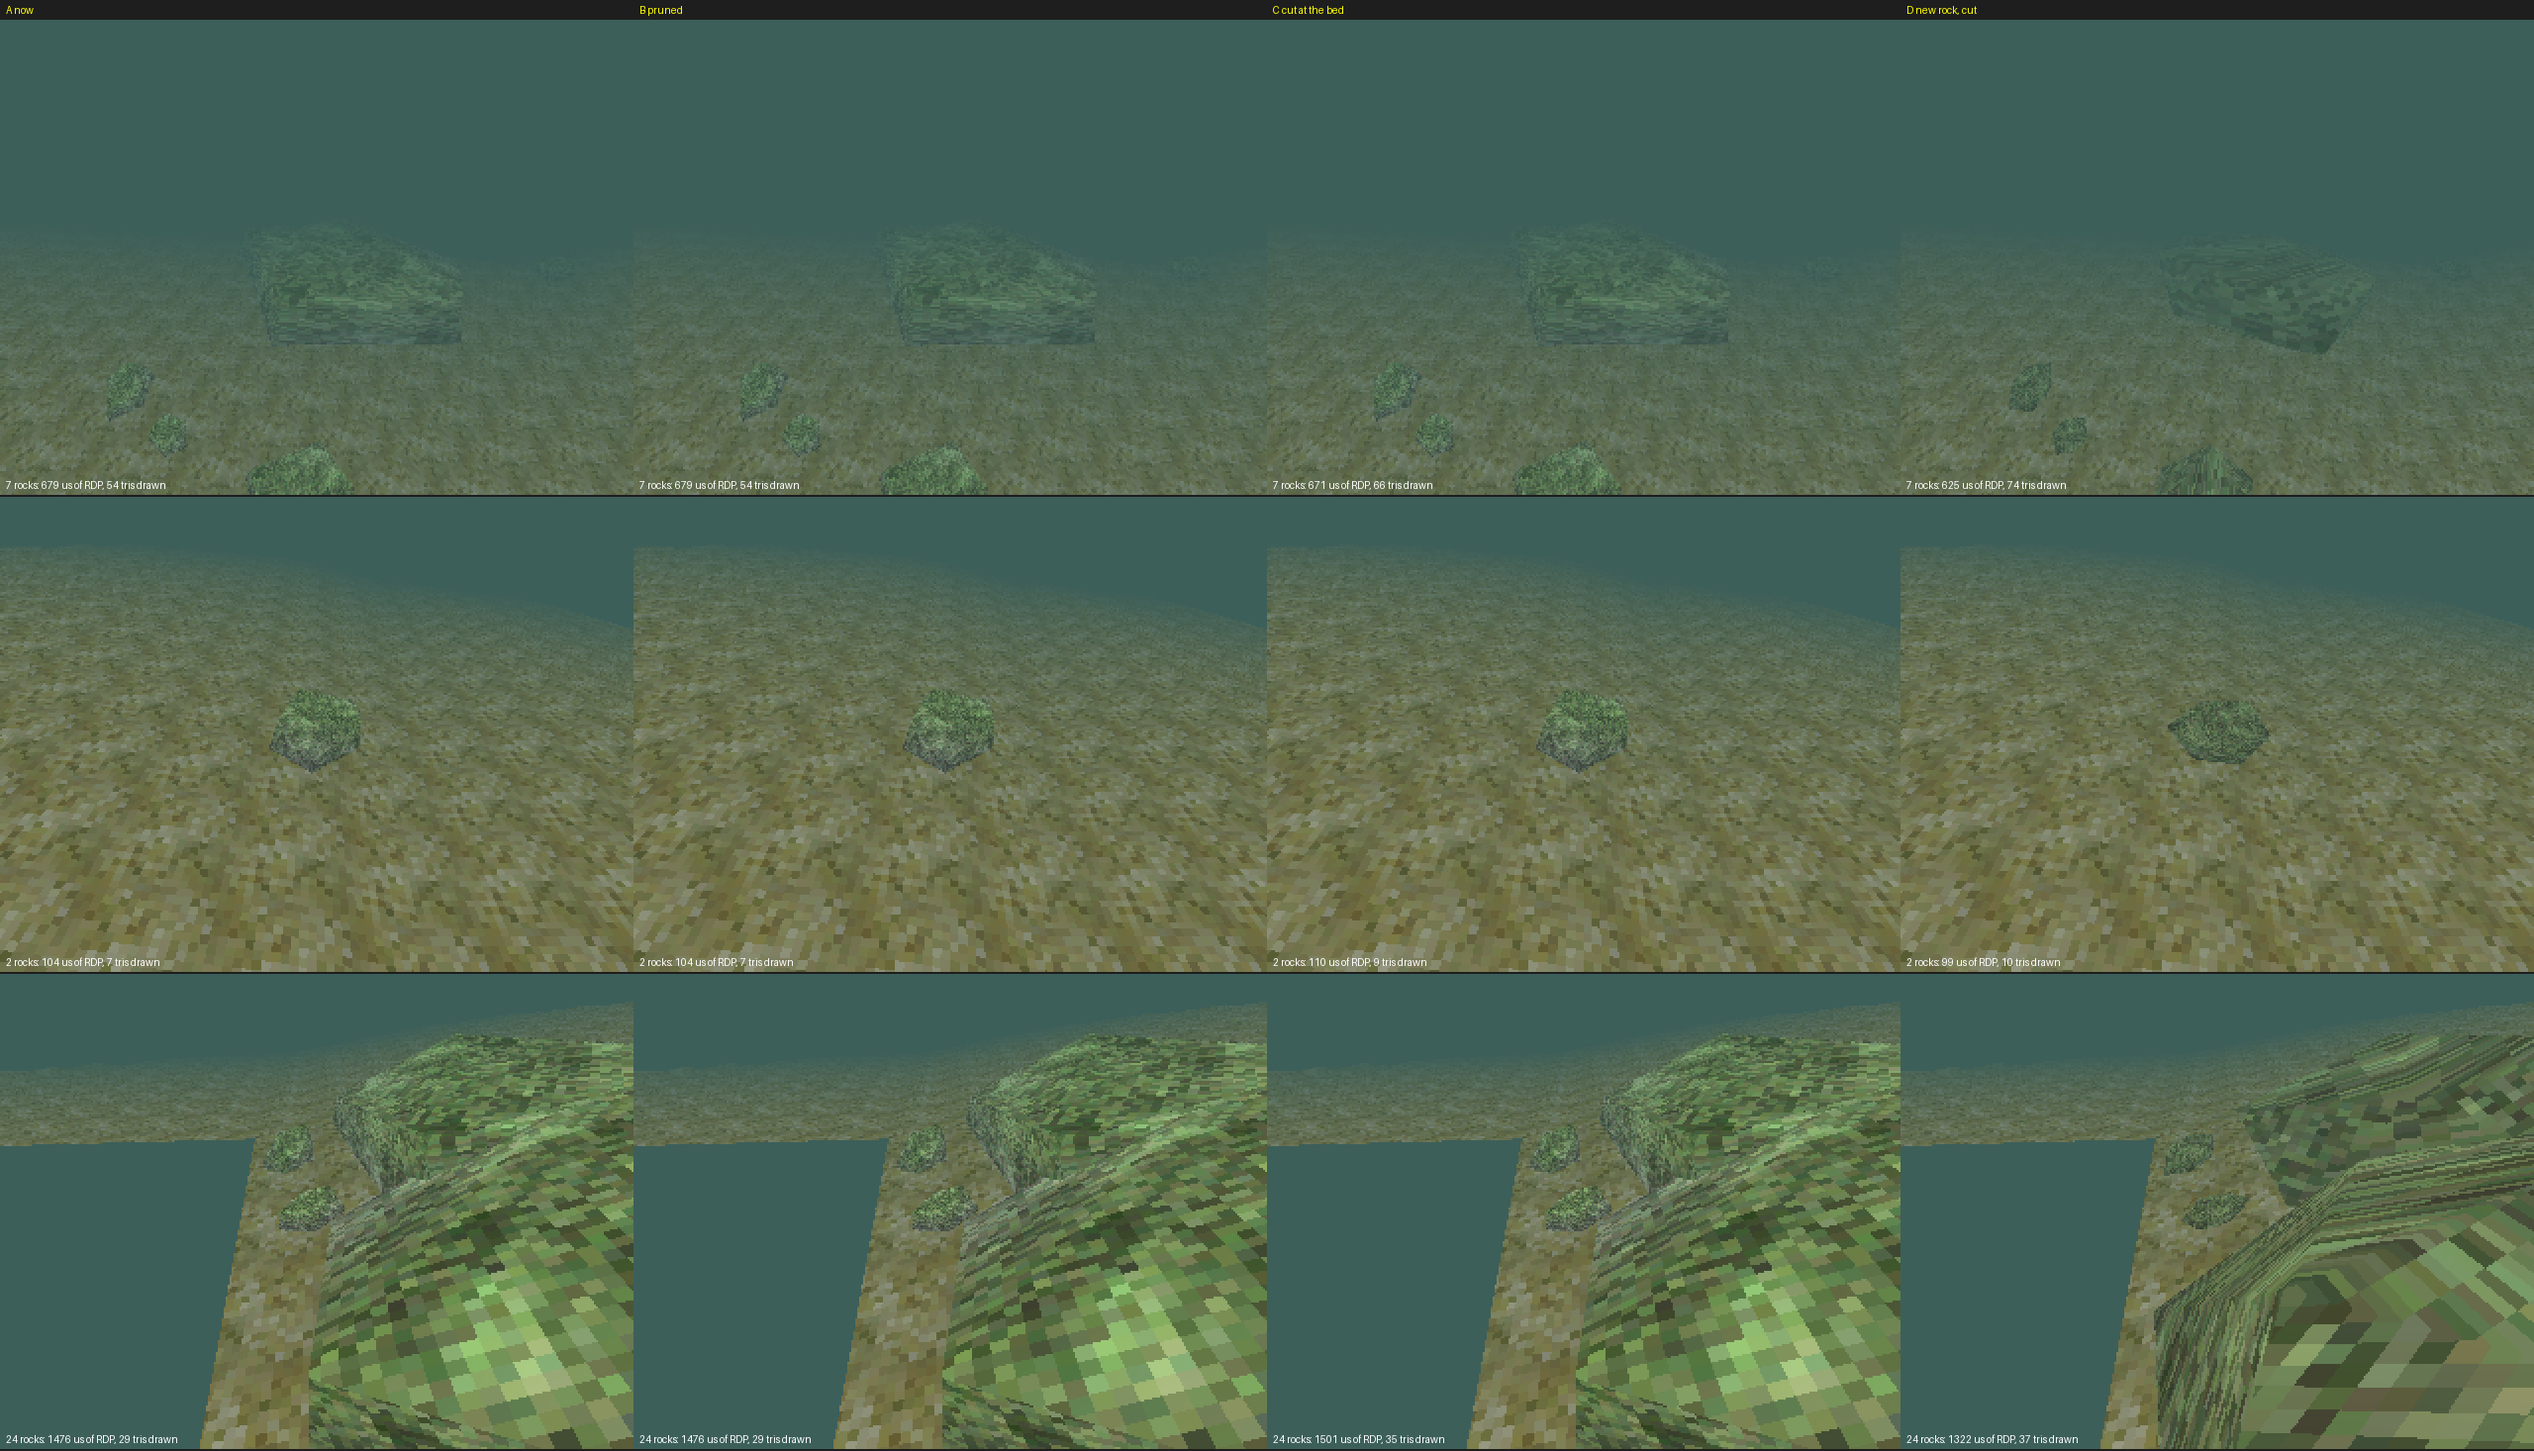
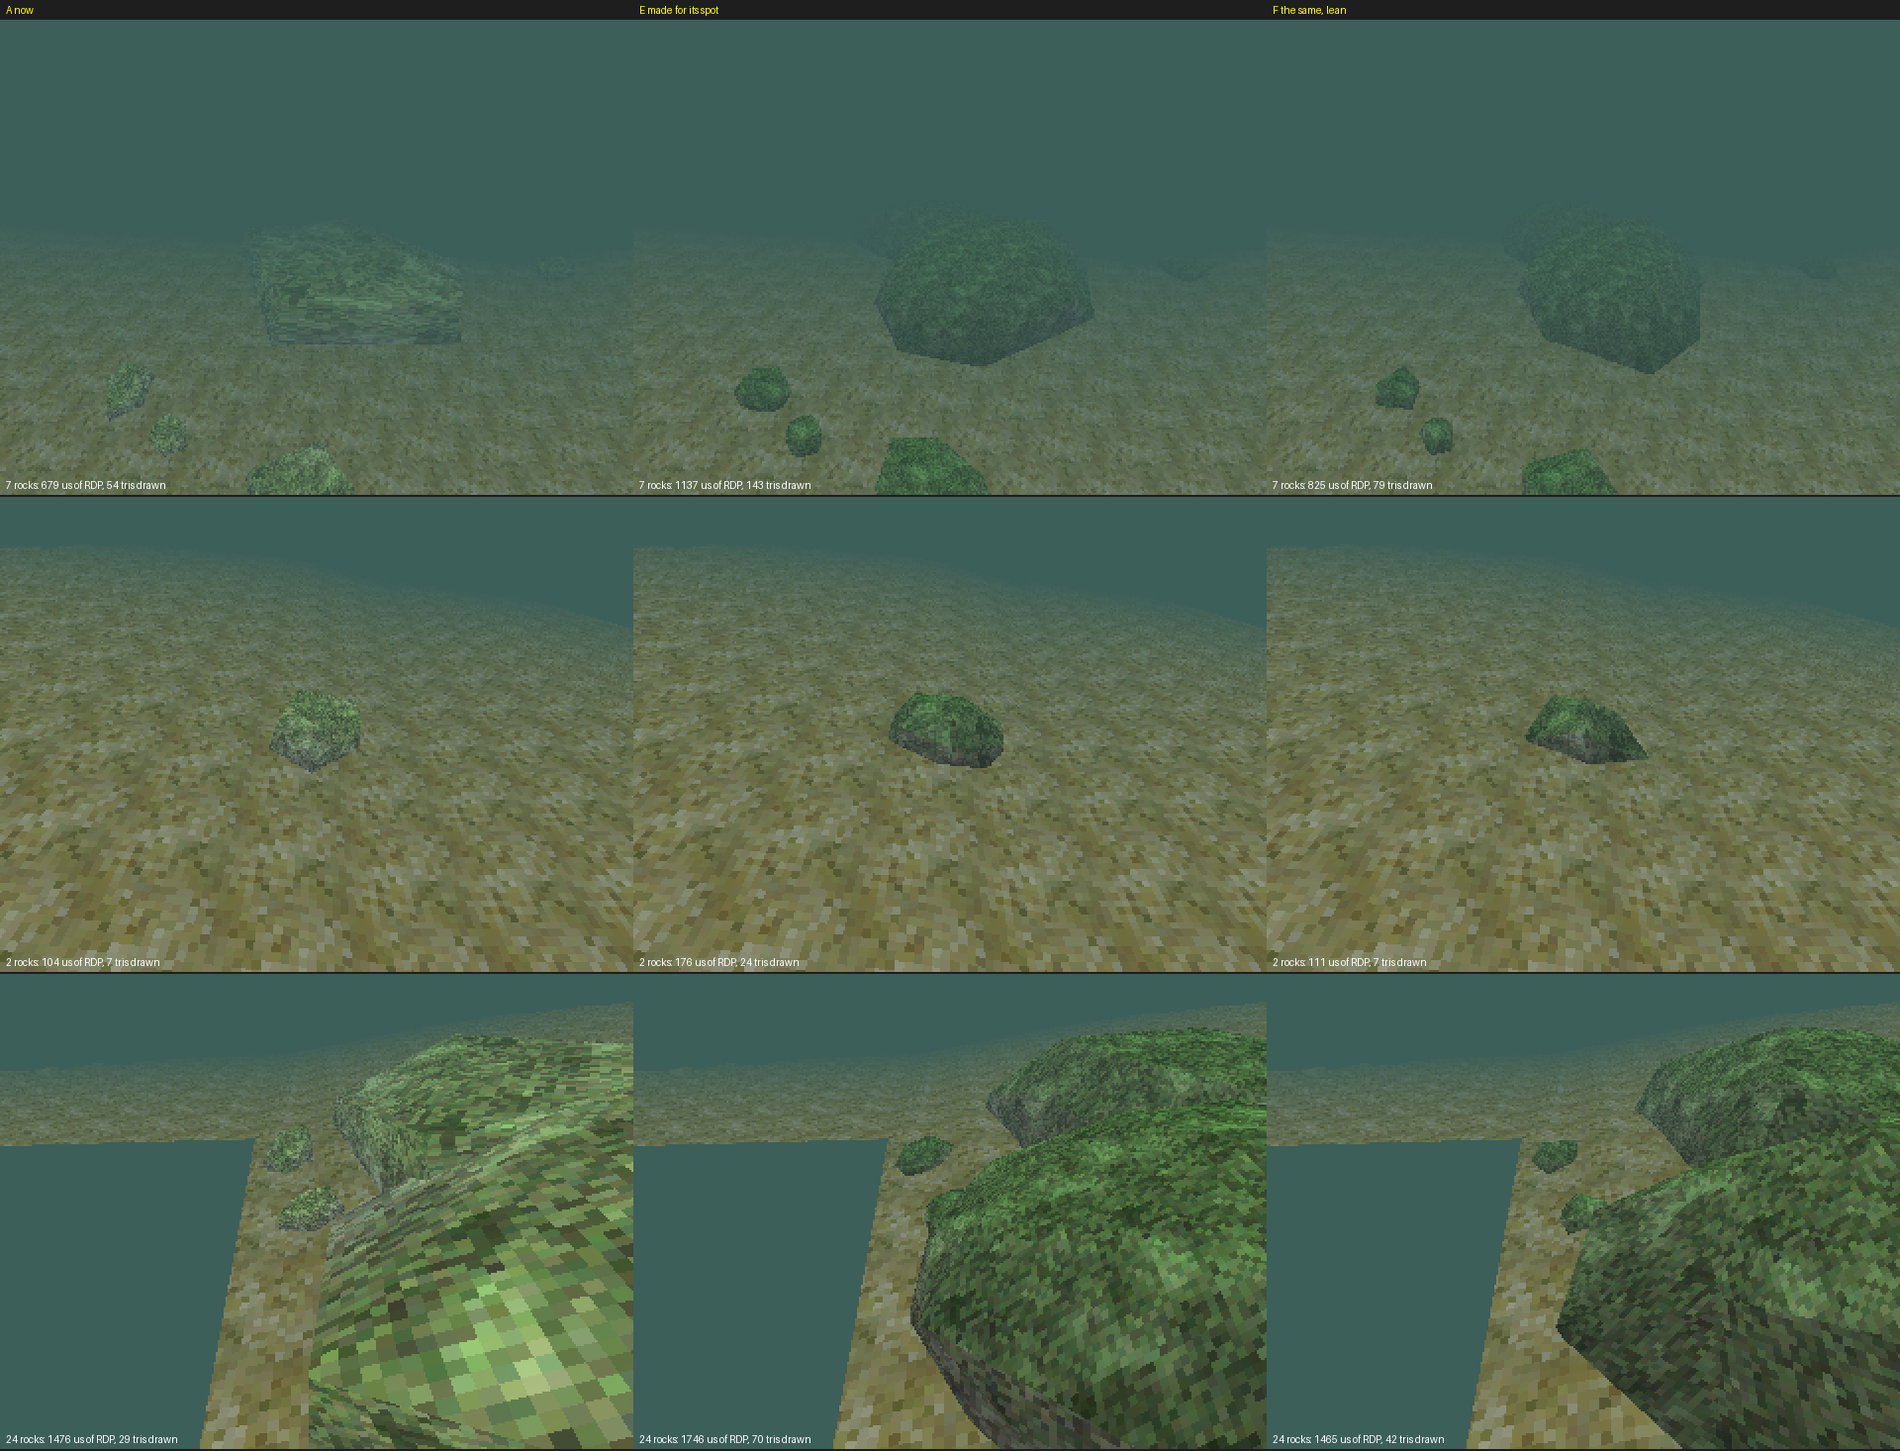
Rock designs: made for their spot (stone / boulder / outcrop by size, the base following the bed, no bottom, odd rings turned half a side, one hull for an outcrop, texture by face direction, moss on top), detailed and lean: the lean ones cost about what the vanilla rock does (docs/rock-designs.png)
Claude-Session: https://claude.ai/code/session_01Ns8wfSgc7GHj6hbL7fMboW

diff --git a/fishmod/tools/rock_designs.py b/fishmod/tools/rock_designs.py
@@ -68,6 +68,82 @@ def new_rock(seed):
     return V, uv, col, [((a, a), (b, b), (c, c)) for a, b, c in F]
 
 
+def made_for(rock, finder, seed=None, lean=False):
+    """E: a rock made for its spot (world coordinates): a stone, a boulder or an outcrop by size, its base ring 3 units
+    into the bed wherever it stands (it follows the slope: nothing deeper, no bottom face), rings of odd counts turned
+    half a side (round from few vertices: fishmod/docs/low-poly-shapes.md), an outcrop one hull round three boulders
+    (no faces inside it). Texture projected by each face's direction (no stretch), moss on what faces up."""
+    from scipy.spatial import ConvexHull
+    rnd = random.Random(seed if seed is not None else rock["x"] * 7 + rock["z"] * 13)
+    st = gs.rock_stretch(rock["x"], rock["z"])
+    k = rock["scale"]
+    r = 60.0 * k * (st[0] + st[2]) / 2
+    h = 56.0 * k * st[1]
+    cx, cz = rock["x"], rock["z"]
+    yaw = rnd.uniform(0, 2 * math.pi)
+
+    def bed(x, z):
+        f = finder.floor(int(x), int(z), int(rock["y"] + 400))
+        return rock["y"] if f is None else f
+
+    def blob(ox, oz, rr, hh, n):
+        pts = []
+        rings = ((1.0, -3.0, 0.0), (0.92, 0.5, 0.5), (0.55, 0.9, 0.0))
+        if lean:
+            rings = ((1.0, -3.0, 0.0), (0.7, 0.75, 0.5))  # (the base, one ring turned half a side, the top)
+        for ring, (fr, fh, tw) in enumerate(rings):
+            m = n if (ring < 2 and not lean) or ring == 0 else max(3, n - 2)
+            for i in range(m):
+                a = yaw + 2 * math.pi * (i + tw) / m
+                rad = rr * fr * rnd.uniform(0.85, 1.12)
+                x, z = cx + ox + math.cos(a) * rad * 1.15, cz + oz + math.sin(a) * rad * 0.9
+                b = bed(x, z)
+                y = b - 3.0 if ring == 0 else b + hh * fh * rnd.uniform(0.85, 1.1)
+                pts.append((x, y, z))
+        b = bed(cx + ox, cz + oz)
+        pts.append((cx + ox + rnd.uniform(-0.1, 0.1) * rr, b + hh * rnd.uniform(0.95, 1.08), cz + oz))
+        return pts
+
+    if k < 0.55:
+        pts = blob(0, 0, r, h * 0.55, 5)       # a stone: low, five-sided
+    elif k < 1.2:
+        pts = blob(0, 0, r, h, 5 if lean else 7)  # a boulder
+    else:
+        pts = []                              # an outcrop: three boulders, one hull
+        d = r * 0.55
+        for j, (dd, sz) in enumerate(((-d, 0.7), (0.0, 1.0), (d, 0.75))):
+            pts += blob(math.cos(yaw) * dd, math.sin(yaw) * dd, r * sz * 0.75, h * sz, 5 if lean else 7)
+    P = np.array(pts, float)
+    hull = ConvexHull(P)
+    faces = []
+    for simplex, eq in zip(hull.simplices, hull.equations):
+        if eq[1] < -0.6:
+            continue  # (the underside: on or in the bed)
+        a, b, c = simplex
+        n = np.cross(P[b] - P[a], P[c] - P[a])
+        faces.append((a, b, c) if np.dot(n, eq[:3]) > 0 else (a, c, b))
+    # per face: its own corners (the texture projected by its direction), moss by how much it faces up
+    vs, uvs, cs, fs = [], [], [], []
+    ymin = P[:, 1].min()
+    for a, b, c in faces:
+        n = np.cross(P[b] - P[a], P[c] - P[a])
+        n /= np.linalg.norm(n)
+        ax = int(np.argmax(np.abs(n)))
+        base_i = len(vs)
+        for i in (a, b, c):
+            x, y, z = P[i]
+            u, v = ((z, y), (x, z), (x, y))[ax]
+            up = max(0.0, n[1])
+            low = min(1.0, (y - ymin) / max(h, 1.0))
+            shade = 0.55 + 0.45 * low
+            moss = up ** 1.5
+            cs.append((shade * (0.62 - 0.15 * moss), shade * (0.62 + 0.1 * moss), shade * (0.58 - 0.2 * moss)))
+            vs.append((x, y, z))
+            uvs.append((u / 64.0, -v / 64.0))
+        fs.append((base_i, base_i + 1, base_i + 2))
+    return np.array(vs), np.array(uvs), np.array(cs), fs
+
+
 def orient_out(P, faces, centre):
     out = []
     for f in faces:
@@ -93,6 +169,10 @@ def clip_tri(P, UV, C, H):
 
 def rock_mesh(rock, design, finder, base):
     """one rock's world triangles for a design: (verts, uvs, cols, faces)"""
+    if design == "E":
+        return made_for(rock, finder)
+    if design == "F":
+        return made_for(rock, finder, lean=True)
     if design == "D":
         V, UV, C, F = new_rock(rock["x"] * 31 + rock["z"])
     else:
@@ -167,13 +247,13 @@ def main():
     bed_tex = np.asarray(Image.open(os.path.join(SPOT06, "spot06_scene_0000C2B8_Tex.rgba16.png")).convert("RGBA"))
     # whole lake: triangles, and how much of the rocks is under the bed
     print("%d rocks" % len(rocks))
-    for design in "ABCD":
+    for design in "AEF":
         tris = sum(len(rock_mesh(r, design, finder, base)[3]) for r in rocks)
         print("  %s: %d triangles in all" % (design, tris))
     # three views: the densest cluster, a big lone rock, a shallow one
     rocks.sort(key=lambda r: -r["scale"])
     picks = [rocks[0], rocks[len(rocks) // 2], rocks[-1]]
-    designs = [("A now", "A"), ("B pruned", "B"), ("C cut at the bed", "C"), ("D new rock, cut", "D")]
+    designs = [("A now", "A"), ("E made for its spot", "E"), ("F the same, lean", "F")]
     cw, ch = mp.W * 2, mp.H * 2
     sheet = Image.new("RGB", (cw * len(designs), 20 + (ch + 2) * len(picks)), (30, 30, 30))
     dr = ImageDraw.Draw(sheet)
